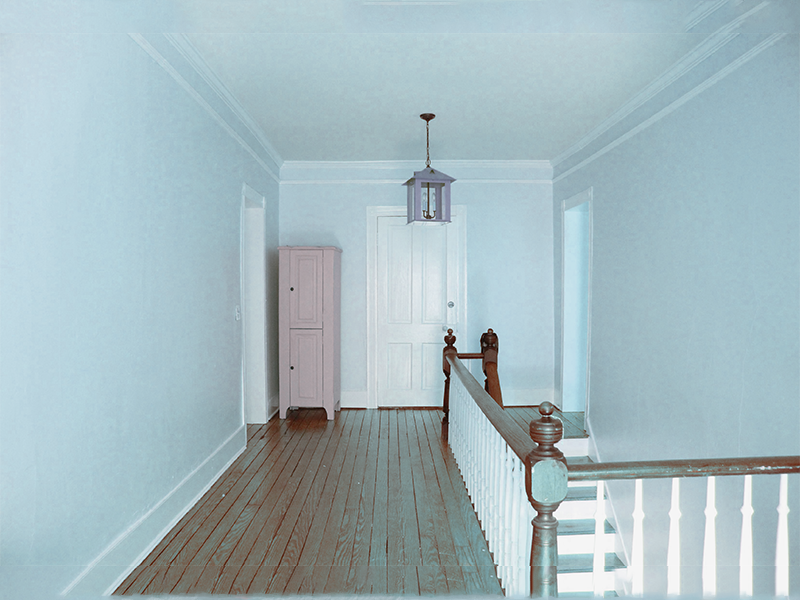
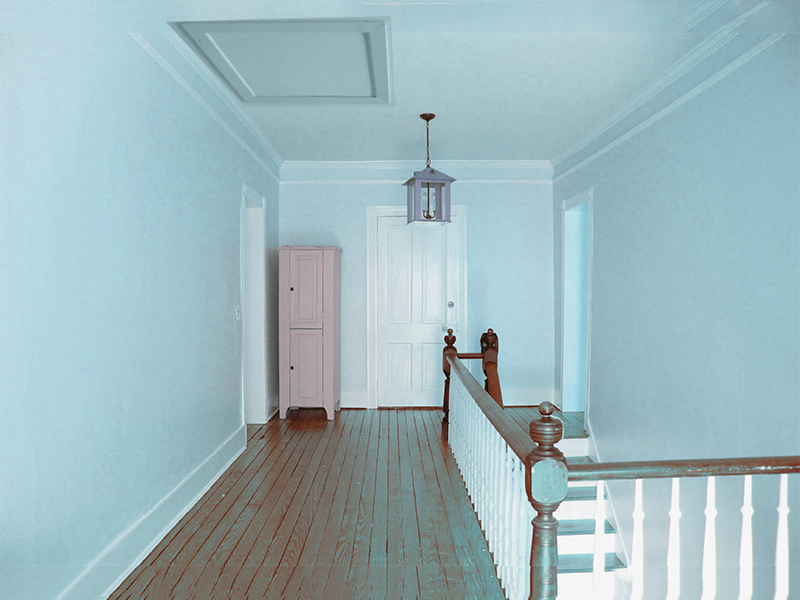
Implements overridable cursors

Changed region(s): [[0.2188, 0.03, 0.5, 0.18], [0.125, 0.96, 0.9375, 1.0], [0.9688, 0.99, 1.0, 1.0]]

diff --git a/adventure.js b/adventure.js
@@ -10,12 +10,12 @@ var adventure = {
             'img'   :   'foyer.png',
             'map'   :   {
                 'stairs'    :   {
-                    'area'      :   {'shape' : 'poly', 'coords' : '220,0,390,110,485,105,400,0'},
+                    'area'      :   {'shape' : 'poly', 'coords' : '220,0,390,110,485,105,400,0', 'class' : 'arrow-u'},
                     'hover'     :   {'cursor' : 'move'},
                     'click'     :   {'go' : 'upstairs'}
                 },
                 'door'      :   {
-                    'area'      :   {'shape' : 'rect', 'coords' : '577,187,695,434'},
+                    'area'      :   {'shape' : 'rect', 'coords' : '577,187,695,434', 'class' : 'arrow-n'},
                     'hover'     :   {'cursor' : 'move'},
                     'click'     :   {'go' : 'outside'}
                 }
@@ -25,9 +25,24 @@ var adventure = {
             'img'   :   'upstairs.png',
             'map'   :   {
                 'stairs'  :   {
-                    'area'      :   {'shape' : 'rect', 'coords' : '510,440,800,600'},
+                    'area'      :   {'shape' : 'rect', 'coords' : '510,440,800,600', 'class' : 'arrow-d'},
                     'hover'     :   {'cursor' : 'move'},
                     'click'     :   {'go' : 'foyer'}
+                },
+                'trapdoor'  :   {
+                    'area'      :   {'shape' : 'poly', 'coords' : '170,23,391,17,395,106,246,107', 'class' : 'arrow-u'},
+                    'hover'     :   {'cursor' : 'move'},
+                    'click'     :   {'go' : 'attic'}
+                }
+            }
+        },
+        'attic'  :   {
+            'img'   :   'attic.png',
+            'map'   :   {
+                'back'  :   {
+                    'area'      :   {'shape' : 'rect', 'coords' : '0, 550, 800, 600', 'class' : 'arrow-s'},
+                    'hover'     :   {'cursor' : 'move'},
+                    'click'     :   {'go' : 'upstairs'}
                 }
             }
         },
@@ -35,7 +50,7 @@ var adventure = {
             'img'   :   'outside.png',
             'map'   :   {
                 'door'  :   {
-                    'area'      :   {'shape' : 'rect', 'coords' : '300,170,350,330'},
+                    'area'      :   {'shape' : 'rect', 'coords' : '300,170,350,330', 'class' : 'arrow-n'},
                     'hover'     :   {'cursor' : 'move'},
                     'click'     :   {'go' : 'foyer'}
                 }

diff --git a/engine.js b/engine.js
@@ -30,14 +30,15 @@ function buildRoom(id) {
         var area = $('<area>')
             .attr('id', id+'_'+hotspot_id)
             .attr('shape', hotspot.area.shape)
-            .attr('coords', hotspot.area.coords);
+            .attr('coords', hotspot.area.coords)
+            .attr('class', hotspot.area.class);
         if ('click' in hotspot) {
             area.click(hotspot.click, clickHandler);
         }
         if ('hover' in hotspot) {
             //May or may not keep this, any heavy duty mouseover functionality will probs need both mouseEnter and mouseLeave. Definitely would be cleaner to migrate pointers to CSS classes defined and assigned in the aventure object.
             if ('cursor' in hotspot.hover) {
-                area.css('cursor', hotspot.hover.cursor);
+                //area.css('cursor', hotspot.hover.cursor);
             }
         }
         map.append(area);

diff --git a/style.css b/style.css
@@ -1,0 +1,6 @@
+.arrow-n {cursor: url(gfx/cursor/arrow-n.png) 24 13, n-resize;}
+.arrow-s {cursor: url(gfx/cursor/arrow-s.png) 24 26, s-resize;}
+.arrow-e {cursor: url(gfx/cursor/arrow-e.png) 45 20, e-resize;}
+.arrow-w {cursor: url(gfx/cursor/arrow-w.png) 3 20, w-resize;}
+.arrow-u {cursor: url(gfx/cursor/arrow-u.png) 20 3, n-resize;}
+.arrow-d {cursor: url(gfx/cursor/arrow-d.png) 20 45, s-resize;}

diff --git a/index.html b/index.html
@@ -2,6 +2,7 @@
 <html>
 <head>
     <title>Adventure</title>
+    <link rel="stylesheet" href="style.css">
     <script src="https://ajax.googleapis.com/ajax/libs/jquery/3.4.0/jquery.min.js"></script>
     <script src="engine.js"></script>
     <script src="adventure.js"></script>
